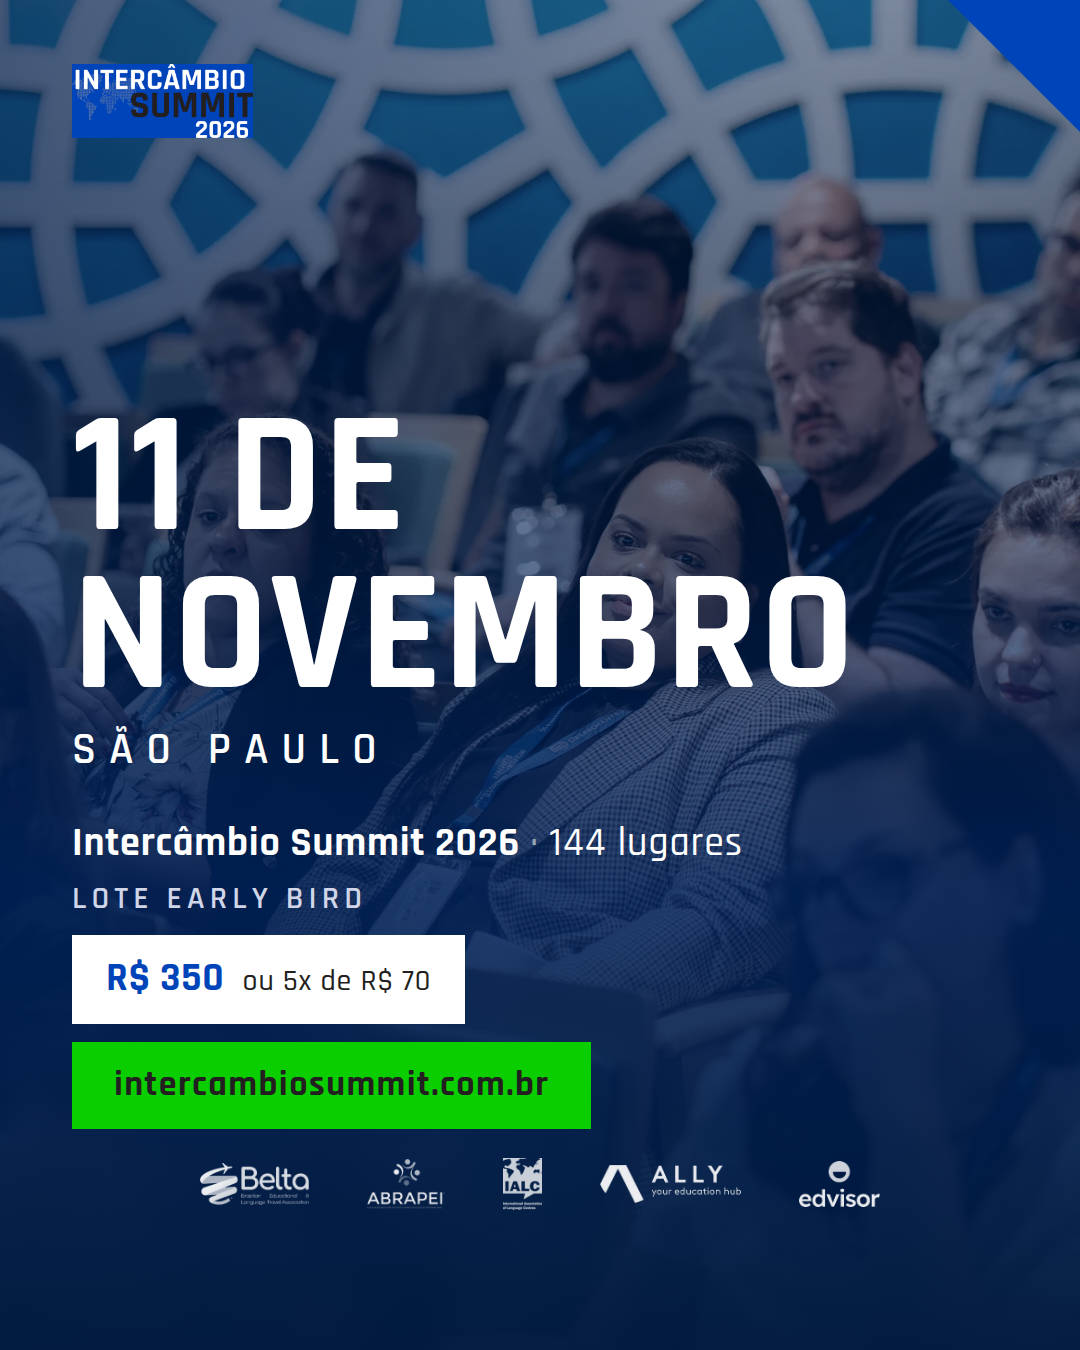
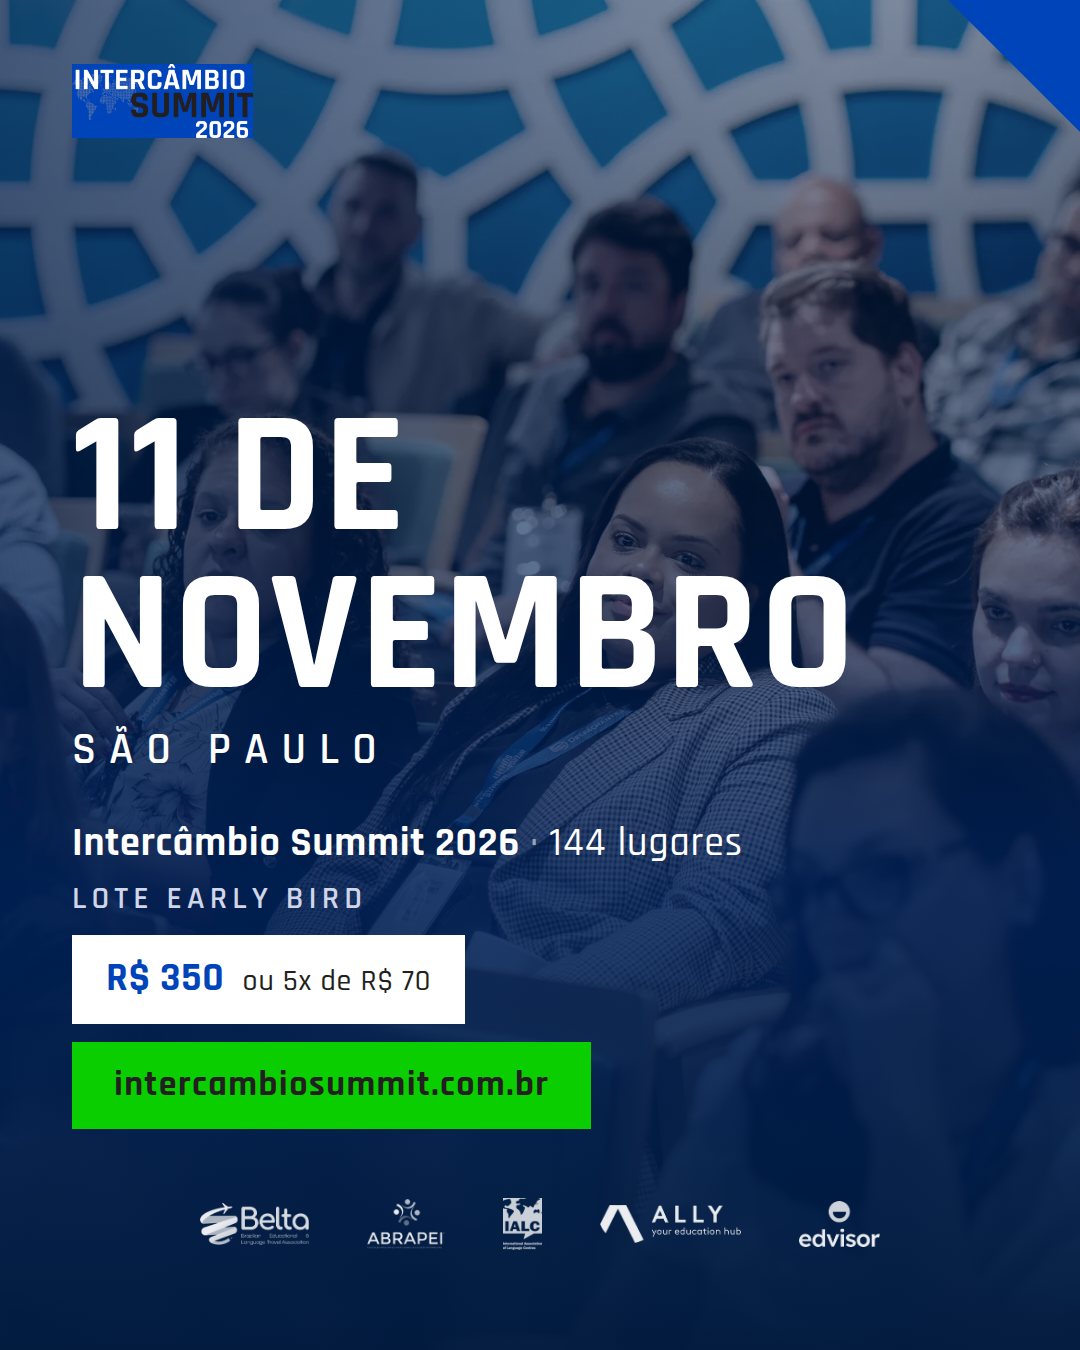
Faixa de apoiadores 40px mais baixa (borda inferior a 100px)
Claude-Session: https://claude.ai/code/session_01K1jUSLEfcAN8o76QZJPw2m

diff --git a/criativos/templates/base.css b/criativos/templates/base.css
@@ -120,11 +120,12 @@ img { display: block; }
 }
 
 /* ---------- faixa de apoiadores ----------
-   Rodapé único, borda inferior a 140px (acima da zona livre de 120px).
+   Rodapé único. Borda inferior a 100px por pedido do Rodrigo (01/09) —
+   entra de leve na zona reservada de 120px, decisão consciente dele.
    Logos mono brancos já equalizados por peso óptico em
    criativos/assets/marca/ (tools/build_criativos_marca.py). */
 .faixa-apoio {
-  position: absolute; left: 0; right: 0; bottom: 140px; z-index: 5;
+  position: absolute; left: 0; right: 0; bottom: 100px; z-index: 5;
   display: flex; align-items: center; justify-content: center;
   gap: 58px;
 }
